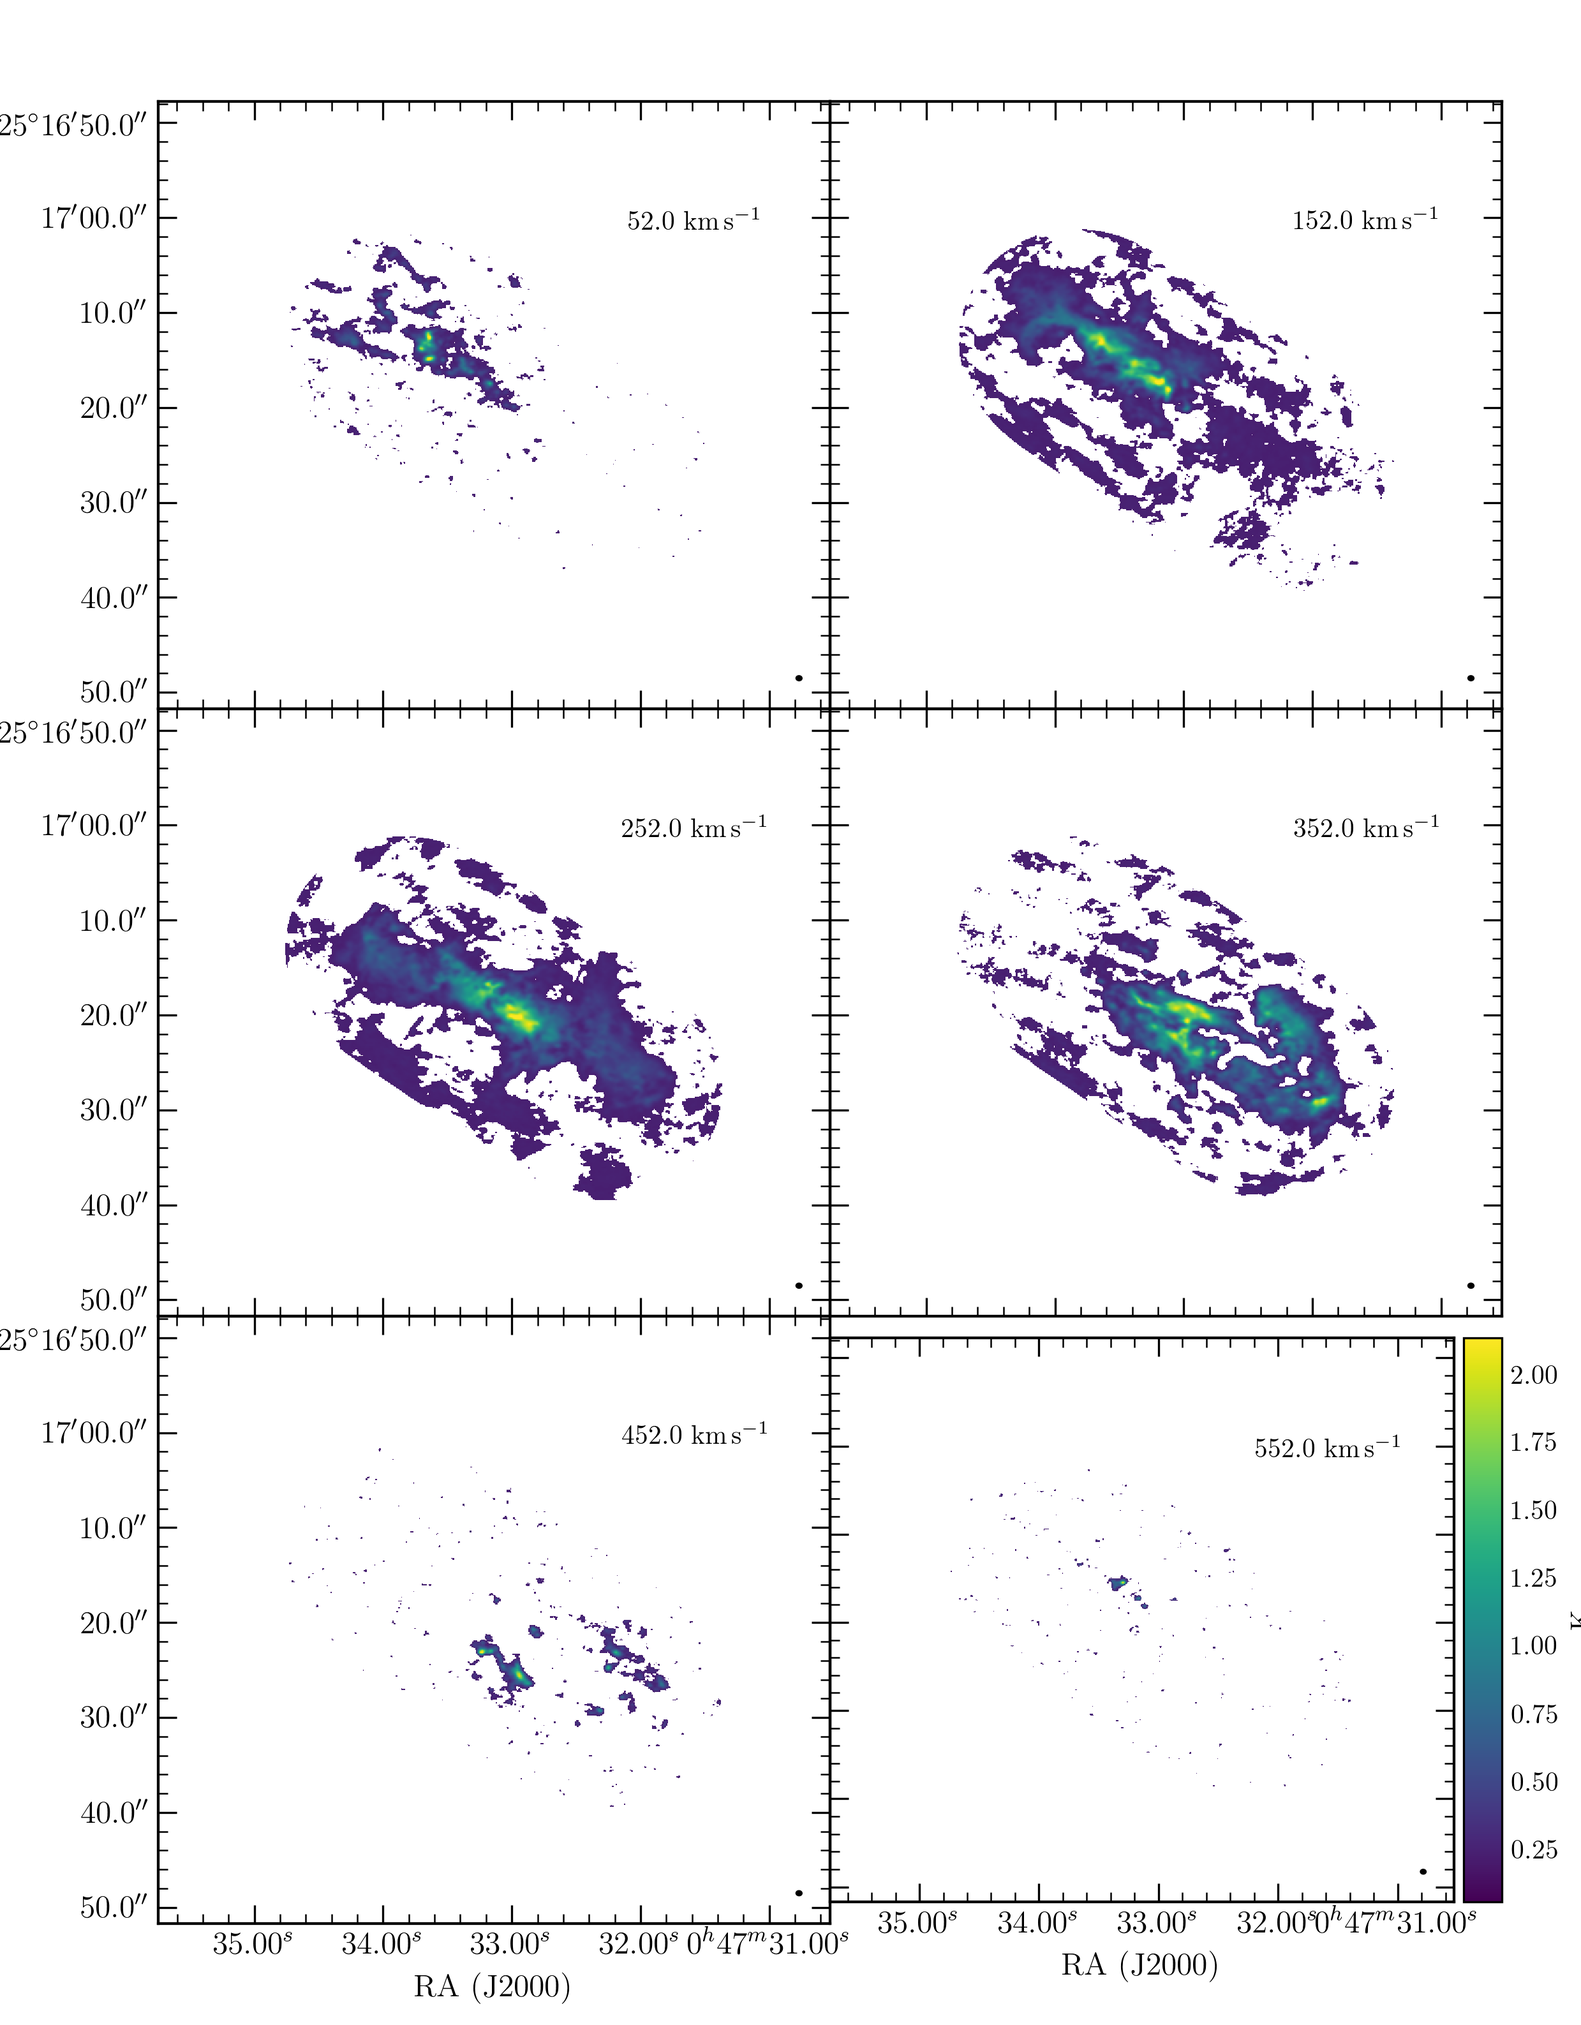
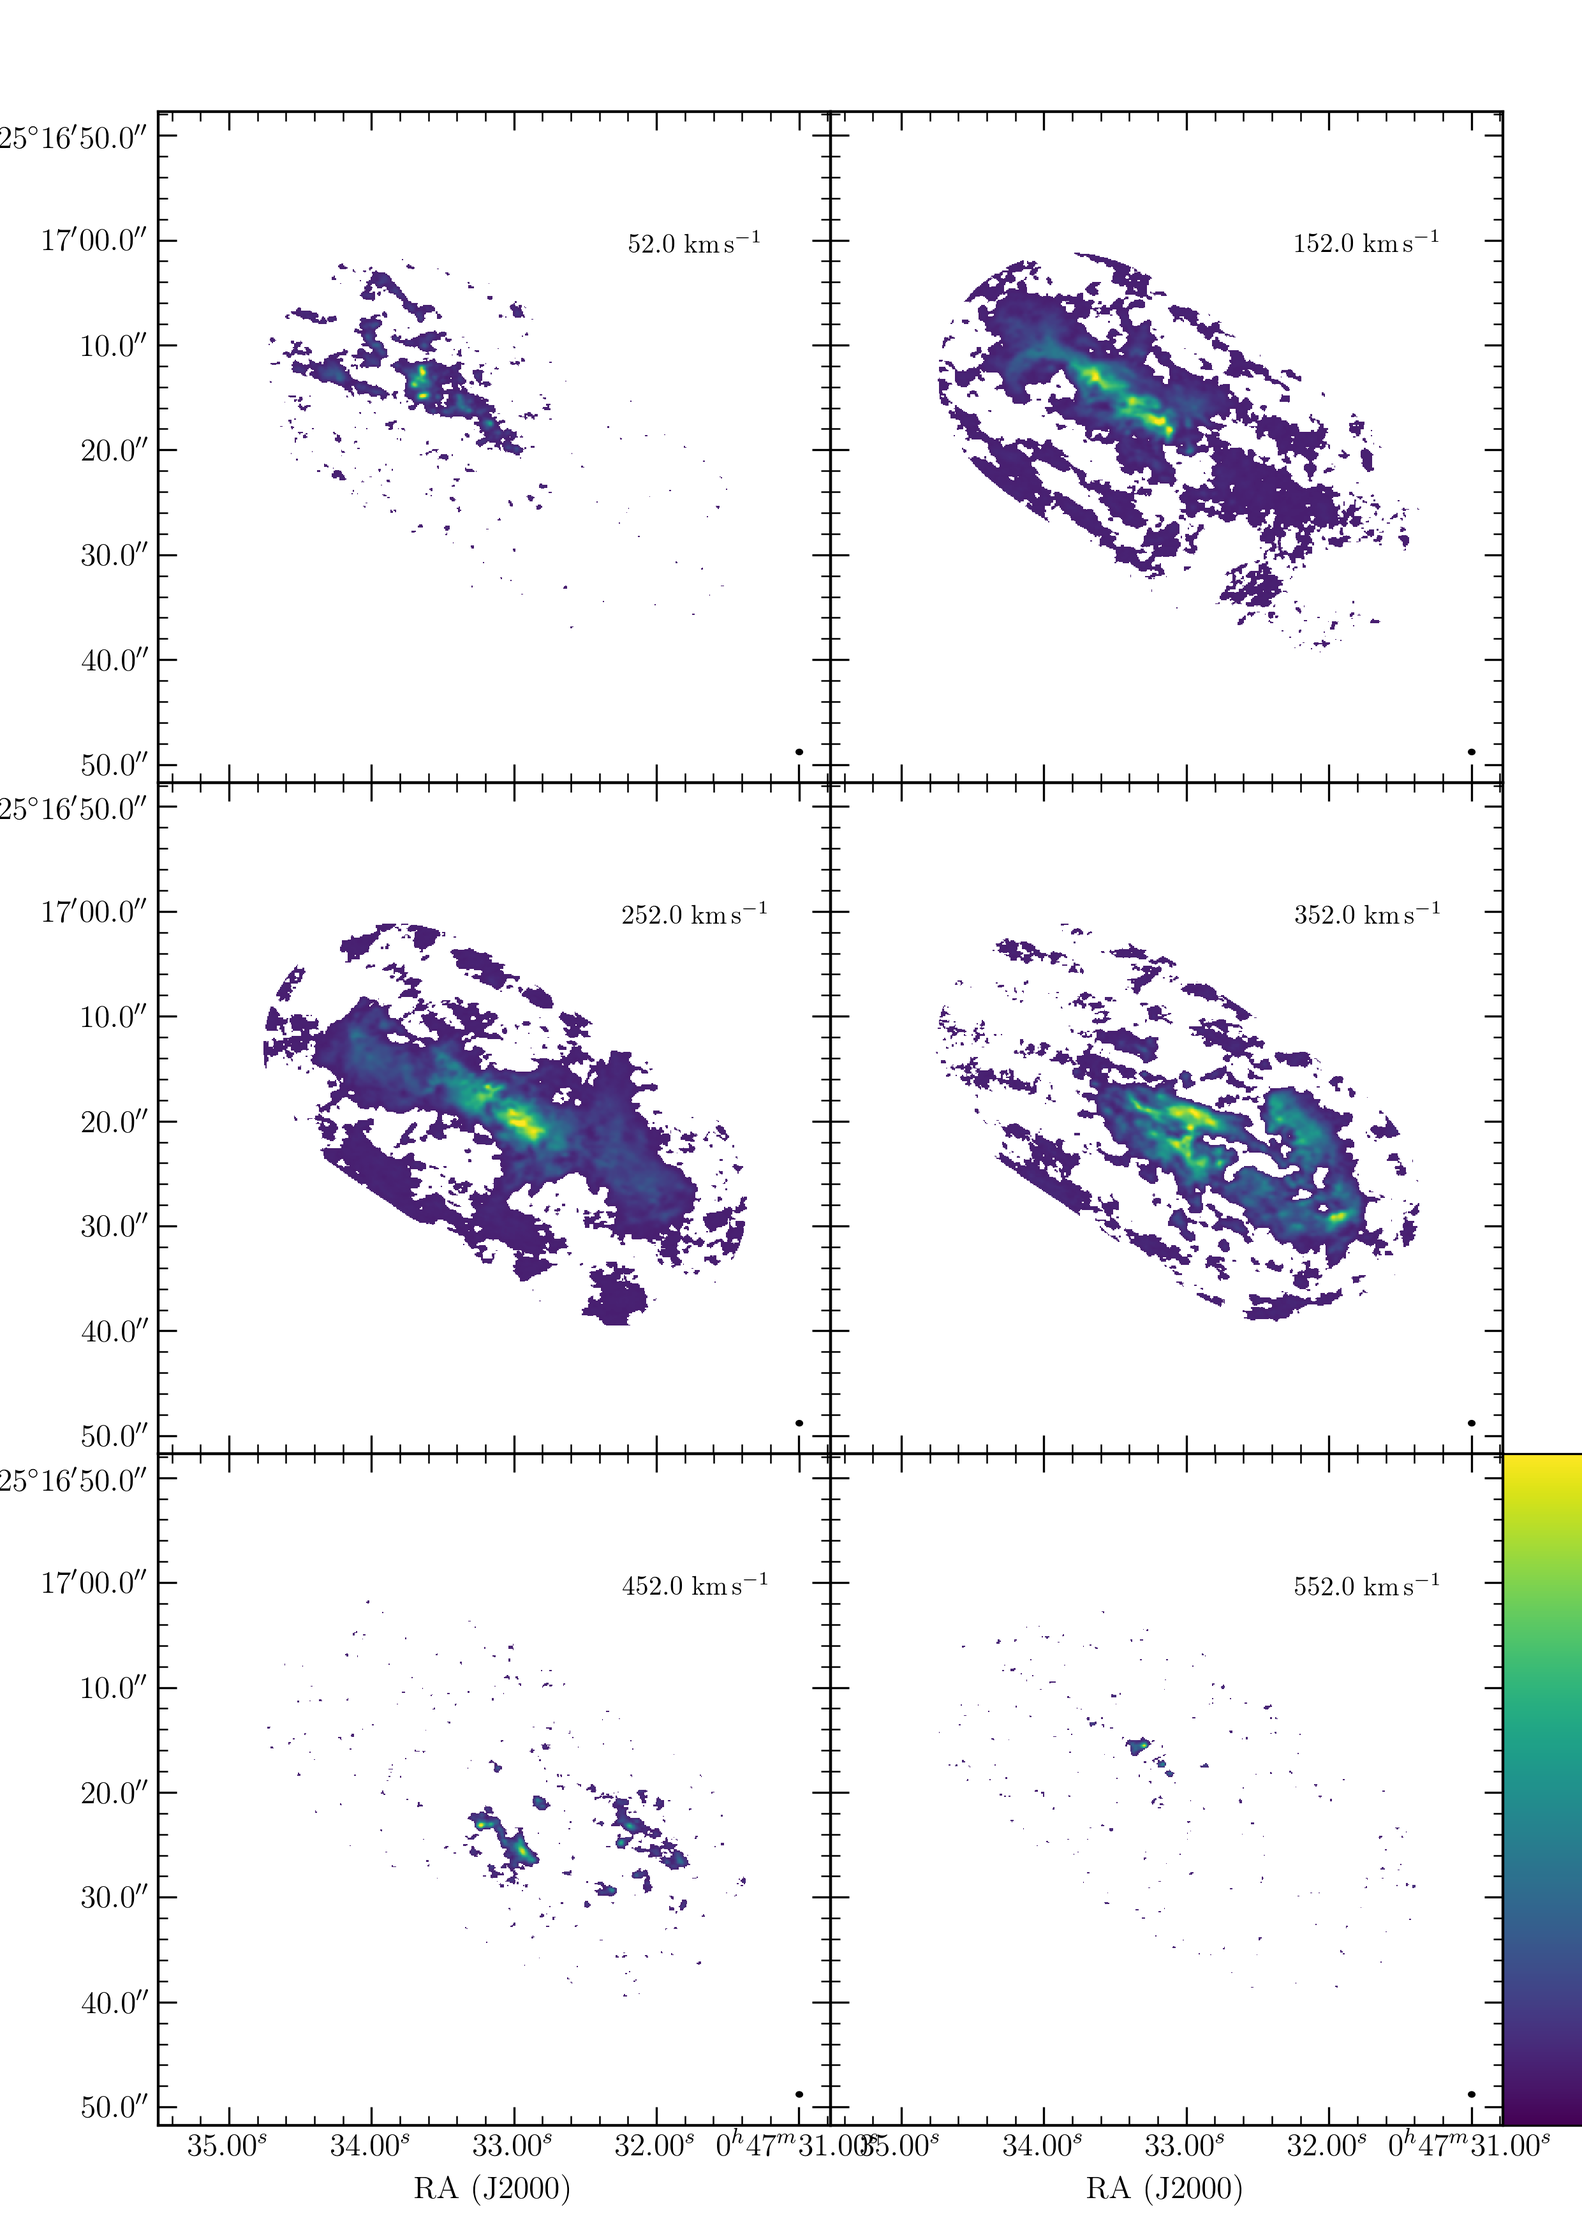
colorbar in plot.grid now working

diff --git a/plot/_helpers.py b/plot/_helpers.py
@@ -20,6 +20,7 @@ from astropy.coordinates import SkyCoord as SkyCoord
 from astropy import units as u
 from astropy.coordinates import Angle as Angle
 from astropy.io import fits
+import matplotlib as mpl
 import matplotlib.pyplot as plt
 from matplotlib import rc as rc
 rc('text',usetex=True)
@@ -49,7 +50,7 @@ def _check_image_type(fitsfile, kwargs):
 
 def _set_up_figure(fitsfile, kwargs):
     print("\x1b[0;34;40m[easy_aplpy]\x1b[0m plotting map "+fitsfile)
-    figsize = kwargs.get('figsize', (8.267,11.692))     # A4 in inches
+    figsize = kwargs.get('figsize', None)     # A4 in inches: (8.267,11.692)``
     channel = kwargs.get('channel', None)
     if ( channel == None ):
         fig = aplpy.FITSFigure(fitsfile, figsize=figsize)
@@ -101,7 +102,10 @@ def _set_up_grid(fitsfile, shape, kwargs):
 ###################################################################################################
 
 def _set_up_panel_figure(main_fig, panel, kwargs):
-    print("\x1b[0;34;40m[easy_aplpy]\x1b[0m plotting panel "+str(panel['num']+1)+" of "+str(panel['npanels'])+", file: "+panel['file'])
+    if ( panel['type'] == 'map' ):
+        print("\x1b[0;34;40m[easy_aplpy]\x1b[0m plotting panel "+str(panel['num']+1)+" of "+str(panel['npanels'])+", file: "+panel['file'])
+    elif ( panel['type'] == 'colorbar' ):
+        print("\x1b[0;34;40m[easy_aplpy]\x1b[0m plotting panel "+str(panel['num']+1)+" of "+str(panel['npanels'])+", colorbar")
     figsize = kwargs.get('figsize', (8.267,11.692))     # A4 in inches
     fig = aplpy.FITSFigure(panel['file'], figure=main_fig, subplot=[panel['x'],panel['y'],panel['width'],panel['height']], dimensions=[0,1], slices=[panel['channel']])
     return fig
@@ -140,15 +144,29 @@ def _grid_panels(fitsfile, shape, channels, kwargs):
                        })
 
     if not colorbar is None:
+        idx = idx+1
         if ( colorbar[0] == 'last panel' ):
             panels.append({'num': idx+1,
                            'npanels': shape[0]*shape[1],
                            'position': None,
                            'type': 'colorbar',
-                           'x': margins[0]+(idx%ncols)*panels_width/ncols,                         # lower left corner
-                           'y': (1.-margins[2])-np.ceil((idx+1.)/ncols)*panels_height/nrows,       # lower left corner
-                           'width': panels_width/ncols,
-                           'height': panels_height/nrows,
+                           'x': margins[0]+((idx%ncols)+0.05)*panels_width/ncols,                  # lower left corner
+                           'y': (1.-margins[2])-(np.ceil((idx+1.)/ncols)-0.5)*panels_height/nrows, # lower left corner
+                           'width': panels_width/ncols*0.9,                                        # cbar fills 90% of panel width
+                           'height': panels_height/nrows*easy_aplpy.settings.colorbar_width,       # cbar height is specified fraction of panel height
+                           'file': fitsfile,
+                           'channel': None,
+                           'physical': None
+                           })
+        if ( colorbar[0] == 'right' ):
+            panels.append({'num': idx+1,
+                           'npanels': shape[0]*shape[1],
+                           'position': None,
+                           'type': 'colorbar',
+                           'x': margins[0]+((idx%ncols)+ncols)*panels_width/ncols,                 # lower left corner
+                           'y': (1.-margins[2])-(np.ceil((idx+1.)/ncols)-1.)*panels_height/nrows,  # lower left corner
+                           'width': panels_width/ncols*easy_aplpy.settings.colorbar_width,         # cbar width is specified fraction of panel width
+                           'height': panels_height/nrows,                                          # cbar is as high as panels
                            'file': fitsfile,
                            'channel': None,
                            'physical': None
@@ -280,45 +298,34 @@ def _show_grid_colorbar(fitsfile, main_fig, fig, panels, kwargs):
     vmin     = kwargs.get('vmin')                                              # no default, aplpy scales automatically
     vmax     = kwargs.get('vmax')
     if not colorbar is None:
-        if ( colorbar[0] == 'last panel' ):
-
-#TODO merge aplpy_plotting and check what I did there regarding the colorbar handling!
-
-            cbpnl = panels[-1]
-            ax1 = main_fig.add_axes([cbpnl['x'],cbpnl['y'],cbpnl['width'],cbpnl['height']*easy_aplpy.settings.colorbar_width])
-            if (stretch == 'linear'):
-                colorbar = mpl.colorbar.ColorbarBase(ax1, cmap=cmap, norm=mpl.colors.Normalize(vmin=vmin, vmax=vmax), orientation='horizontal')
-            elif (stretch == 'log'):
-                log_ticks = [float('{:.2f}'.format(x)) for x in np.logspace(np.log10(kwargs['vmin']),np.log10(kwargs['vmax']),num=5, endpoint=True)]
-                colorbar = mpl.colorbar.ColorbarBase(ax1, cmap=cmap, norm=mpl.colors.LogNorm(vmin=vmin, vmax=vmax), ticks=log_ticks, orientation='horizontal')
-                colorbar.set_ticks(log_ticks)
-                colorbar.set_ticklabels(['{:.2f}'.format(x) for x in log_ticks])
-            else:
-                raise NotImplementedError("Scalings other than 'linear' and 'log' are not supported yet for grid plots.")
-
-            colorbar.set_label(colorbar[1])
-            colorbar.outline.set_edgecolor(easy_aplpy.settings.frame_color)
-            colorbar.ax.tick_params(labelsize=easy_aplpy.settings.colorbar_fontsize)
-
-            from distutils.version import LooseVersion
-            if ( LooseVersion(mpl.__version__) < LooseVersion('1.3') ):
-                colorbar.outline.set_color(easy_aplpy.settings.frame_color)
-            else:
-                colorbar.outline.set_edgecolor(easy_aplpy.settings.frame_color)
-
+        cbpnl = panels[-1]
+        ax1 = main_fig.add_axes([cbpnl['x'],cbpnl['y'],cbpnl['width'],cbpnl['height']])
+        if ( colorbar[0] == 'last panel' ) or ( colorbar[0] == 'top' ):
+            orientation = 'horizontal'
         elif ( colorbar[0] == 'right' ):
-            fig.add_colorbar()
-            fig.colorbar.show()
-            fig.colorbar.set_location(colorbar[0])
-            fig.colorbar.set_axis_label_text(colorbar[1])
-            if ( stretch == 'log' ):
-                log_ticks = [float('{:.2f}'.format(round(x,int(-1*np.log10(kwargs['vmin']))))) for x in np.logspace(np.log10(kwargs['vmin']),np.log10(kwargs['vmax']),num=10, endpoint=True)]
-                fig.colorbar.set_ticks(log_ticks)
-            fig.colorbar.set_font(size=easy_aplpy.settings.colorbar_fontsize)
-            fig.colorbar.set_axis_label_font(size=easy_aplpy.settings.colorbar_fontsize)
-            fig.colorbar.set_frame_color(easy_aplpy.settings.frame_color)
+            orientation = 'vertical'
         else:
             raise NotImplementedError("Only colorbar in 'last panel' and 'right' of the last panel is supported at the moment.")
+
+        if (stretch == 'linear'):
+            mplcolorbar = mpl.colorbar.ColorbarBase(ax1, cmap=cmap, norm=mpl.colors.Normalize(vmin=vmin, vmax=vmax), orientation=orientation)
+        elif (stretch == 'log'):
+            log_ticks = [float('{:.2f}'.format(x)) for x in np.logspace(np.log10(kwargs['vmin']),np.log10(kwargs['vmax']),num=5, endpoint=True)]
+            mplcolorbar = mpl.colorbar.ColorbarBase(ax1, cmap=cmap, norm=mpl.colors.LogNorm(vmin=vmin, vmax=vmax), ticks=log_ticks, orientation=orientation)
+            mplcolorbar.set_ticks(log_ticks)
+            mplcolorbar.set_ticklabels(['{:.2f}'.format(x) for x in log_ticks])
+        else:
+            raise NotImplementedError("Scalings other than 'linear' and 'log' are not supported yet for grid plots.")
+
+        mplcolorbar.set_label(colorbar[1])
+        mplcolorbar.outline.set_edgecolor(easy_aplpy.settings.frame_color)
+        mplcolorbar.ax.tick_params(labelsize=easy_aplpy.settings.colorbar_fontsize)
+
+        from distutils.version import LooseVersion
+        if ( LooseVersion(mpl.__version__) < LooseVersion('1.3') ):
+            mplcolorbar.outline.set_color(easy_aplpy.settings.frame_color)
+        else:
+            mplcolorbar.outline.set_edgecolor(easy_aplpy.settings.frame_color)
 
 
 ###################################################################################################

diff --git a/test_data/tests.py b/test_data/tests.py
@@ -6,13 +6,13 @@ from astropy.coordinates import SkyCoord
 import astropy.units as u
 import matplotlib.pyplot as plt
 
-plt.ion()
+#plt.ion()
 
 
 ####################################################################################################
 
 easy_aplpy.plot.map('map.fits',
-    out = {'filename': 'map.simple.png'}
+    out = 'map.simple.png'
     )
 
 easy_aplpy.plot.map('map.fits',
@@ -36,12 +36,12 @@ easy_aplpy.plot.map('map.fits',
 ####################################################################################################
 
 easy_aplpy.plot.map('cube.fits',
-    out = {'filename': 'cube.simple.chan_int.png'},
+    out = 'cube.simple.chan_int.png',
     channel = 250
     )
 
 easy_aplpy.plot.map('cube.fits',
-    out = {'filename': 'cube.simple.chan_unit.png'},
+    out = 'cube.simple.chan_unit.png',
     channel = 250*u.km/u.s
     )
 
@@ -67,7 +67,7 @@ easy_aplpy.plot.map('cube.fits',
 ####################################################################################################
 
 easy_aplpy.plot.map('pv.fits',
-    out = {'filename': 'pv.simple.png'}
+    out = 'pv.simple.png'
     )
 
 easy_aplpy.plot.map('pv.fits',
@@ -86,10 +86,32 @@ easy_aplpy.plot.map('pv.fits',
 ####################################################################################################
 
 easy_aplpy.plot.grid('cube.fits', [2,3], [150,200,250,300,350,400],
-    out = {'filename': 'cube.channelmap.simple.png', 'dpi': 300})
+    out = 'cube.channelmap.simple.png'
+    )
 
+easy_aplpy.plot.grid('cube.fits', [2,3], [150,200,250,300,350],
+    out      = {'filename': 'cube.channelmap.complex.last_panel.png', 'dpi': 300, 'transparent': True},
+    vmin     = 0,
+    vmax     = 60,
+    stretch  = 'linear',
+    contours = [[['cube.fits', 150, [2.5,5,10,20,40], 'black']],
+                [['cube.fits', 200, [2.5,5,10,20,40], 'black']],
+                [['cube.fits', 250, [2.5,5,10,20,40], 'black']],
+                [['cube.fits', 300, [2.5,5,10,20,40], 'black']],
+                [['cube.fits', 350, [2.5,5,10,20,40], 'black']]],
+    circles  = [[],
+                [],
+                [[SkyCoord('00h47m33.07s -25d17m20.0s'), 10.0*u.arcsec, {'linewidth': 1.0, 'edgecolor':'red'}],[SkyCoord('00h47m33.07s -25d17m20.0s'), 20.0*u.arcsec, {'linewidth': 1.0, 'edgecolor':'red'}]],
+                [[SkyCoord('00h47m33.07s -25d17m20.0s'), 10.0*u.arcsec, {'linewidth': 1.0, 'edgecolor':'red'}],[SkyCoord('00h47m33.07s -25d17m20.0s'), 20.0*u.arcsec, {'linewidth': 1.0, 'edgecolor':'red'}]],
+                []],
+    scalebar = [5.0*u.arcsec, 'some distance', 'bottom'],
+    colorbar = ['last panel', 'some units']
+    )
+
+easy_aplpy.settings.margins = [0.15,0.10,0.05,0.05]
+easy_aplpy.settings.colorbar_width = 0.10
 easy_aplpy.plot.grid('cube.fits', [2,3], [150,200,250,300,350,400],
-    out      = {'filename': 'cube.channelmap.complex.png', 'dpi': 300, 'transparent': True},
+    out      = {'filename': 'cube.channelmap.complex.right.png', 'dpi': 300, 'transparent': True},
     vmin     = 0,
     vmax     = 60,
     stretch  = 'linear',
@@ -106,8 +128,9 @@ easy_aplpy.plot.grid('cube.fits', [2,3], [150,200,250,300,350,400],
                 [],
                 []],
     scalebar = [5.0*u.arcsec, 'some distance', 'bottom'],
-    colorbar = ['last panel', 'some units']
+    colorbar = ['right', 'some units']
     )
+easy_aplpy.settings.restore_defaults()
 
 
 ####################################################################################################

diff --git a/settings/_settings.py b/settings/_settings.py
@@ -1,7 +1,17 @@
+#####################################################################
+#                          APLPY PLOTTING                           #
+#####################################################################
+# These functions will produce plots of channel maps, moment maps,  #
+# pV diagrams, ... in a quality that (hopefully) allows publishing. #
+#####################################################################
+
+###################################################################################################
+
 from astropy.coordinates import Angle as Angle
 from astropy import units as u
 
 __all__ = ['tick_label_xformat','tick_label_yformat','ticks_xspacing','ticks_yspacing','ticks_minor_frequency','colorbar_fontsize','colorbar_width','scalebar_frame','scalebar_linestyle','scalebar_linewidth','scalebar_color','scalebar_fontsize','beam_frame','beam_color','ticks_color','frame_color','tick_label_fontsize','axis_label_fontsize','grid_label_pos','grid_label_color','grid_label_fontsize','grid_label_format','margins','props']
+
 
 ###################################################################################################
 

diff --git a/settings/_helpers.py b/settings/_helpers.py
@@ -1,20 +1,16 @@
 #####################################################################
 #                          APLPY PLOTTING                           #
 #####################################################################
+# These functions will produce plots of channel maps, moment maps,  #
+# pV diagrams, ... in a quality that (hopefully) allows publishing. #
+#####################################################################
 
-"""
-These functions will produce plots of channel maps, moment maps,
-pV diagrams, ... in a quality that (hopefully) allows publishing.
-"""
+###################################################################################################
+
+__all__ = ['restore_defaults']
 
 
 ###################################################################################################
 
-# import modules
-################
-
-from ._settings import *
-from ._helpers import *
-
-
-###################################################################################################
+def restore_defaults():
+    raise NotImplementedError("To be implemented ...")
